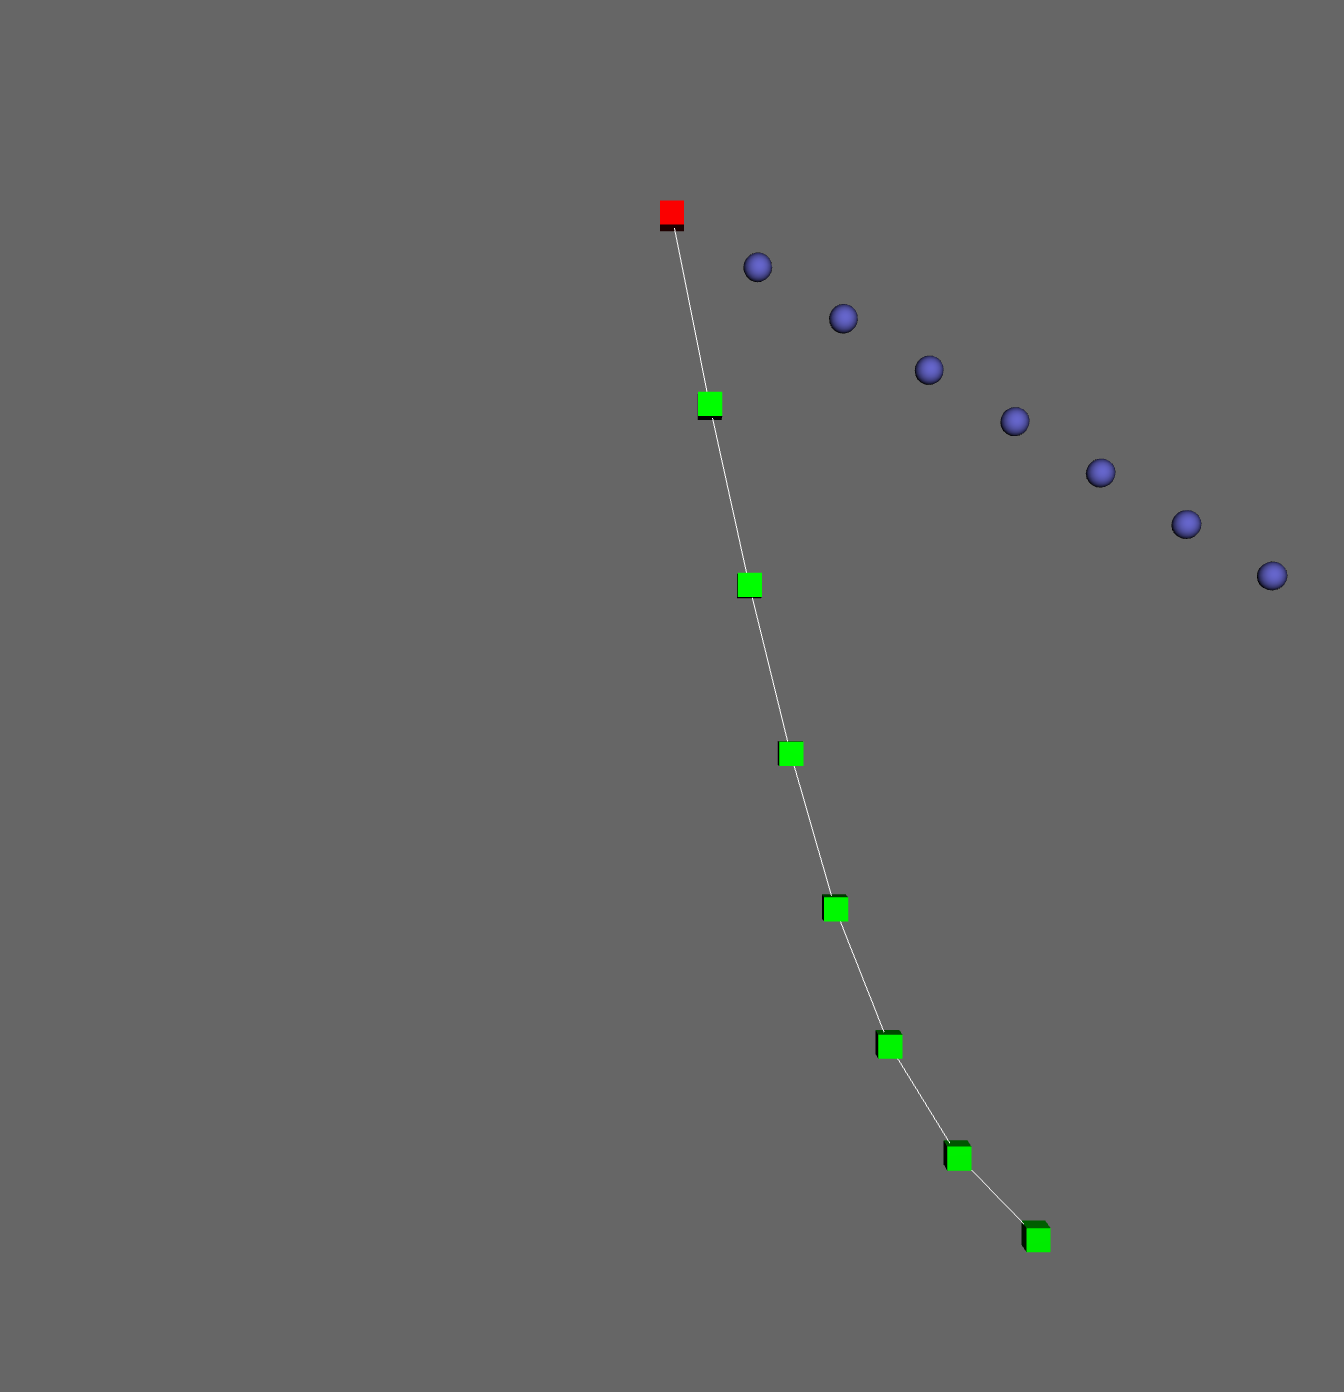
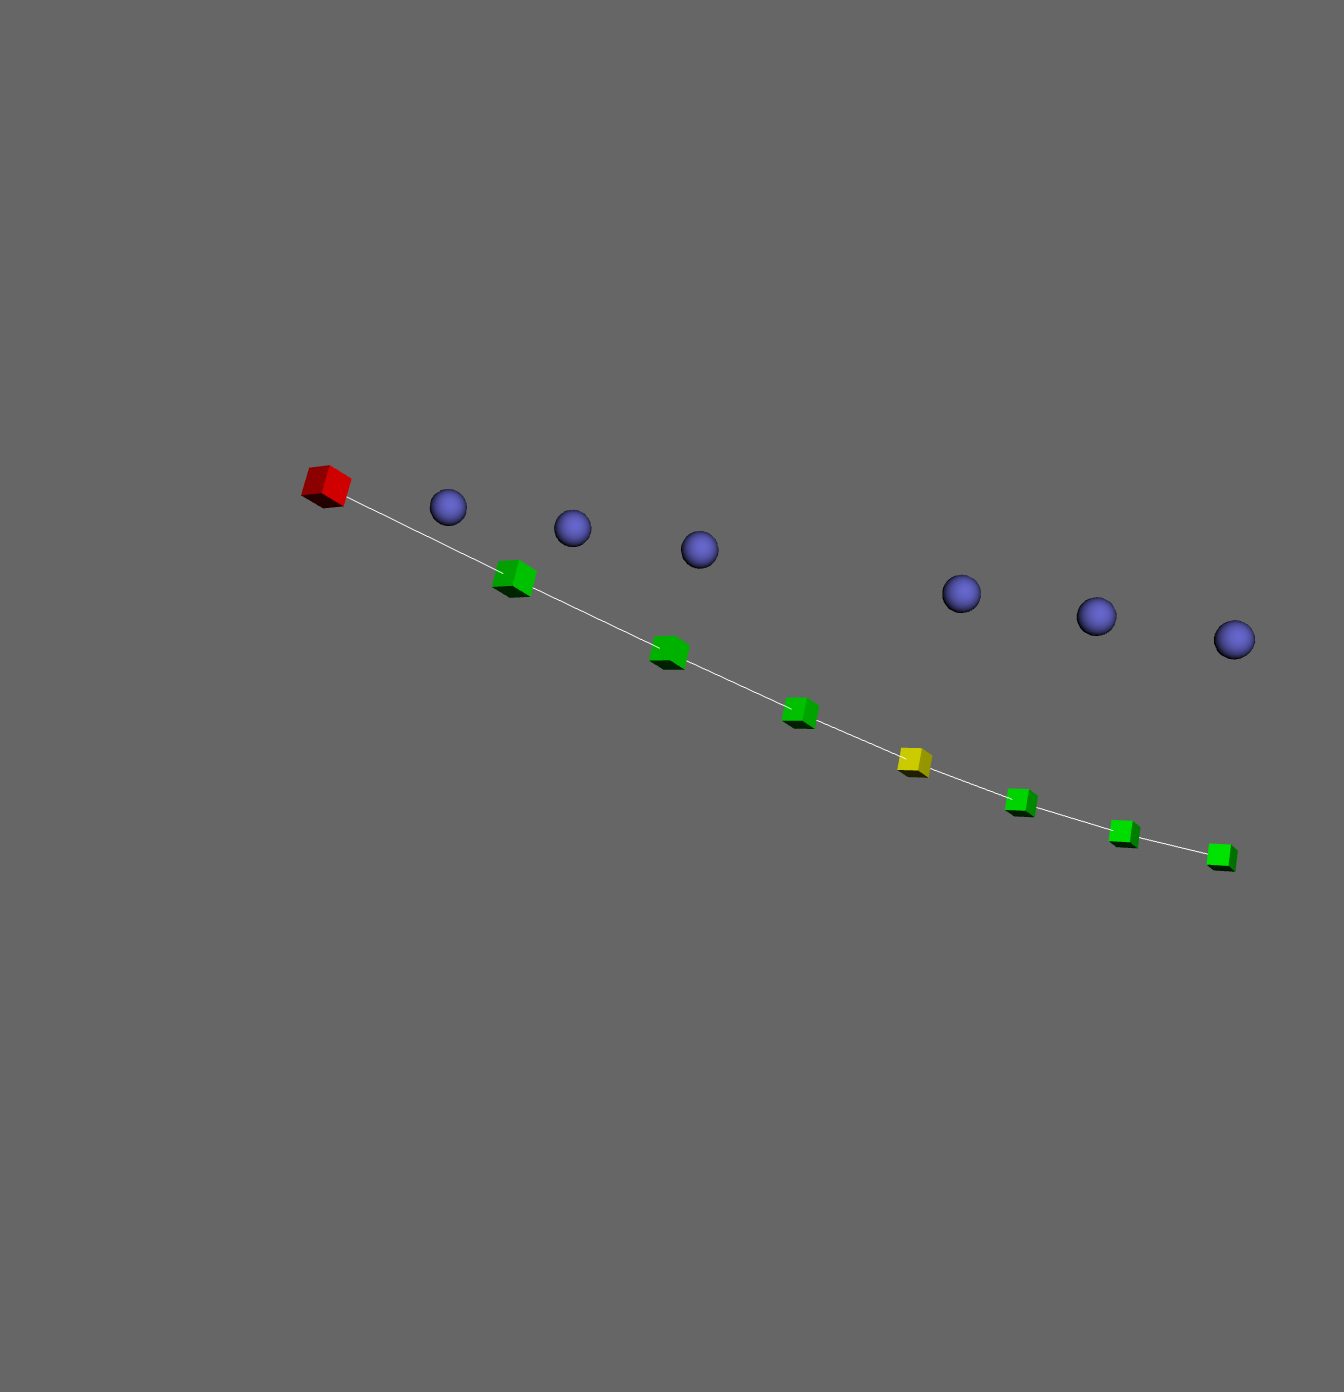
docs(mass-spring): document picking and dragging
Corrects the spec's guess about MSAA: the problem is not that multisampled
edge pixels decode to garbage, it is that glReadPixels on a multisampled
buffer is invalid outright, so the ID pass needs its own single-sample
framebuffer. The preview image now shows a held mass too.

diff --git a/MassSpring/README.md b/MassSpring/README.md
@@ -23,10 +23,26 @@ cd MassSpring
 uv run main.py
 ```
 
-Left mouse rotates; everything else is on the panel. Pin either end, turn on
-gravity and watch it swing. The cubes are the masses (red when pinned, green
-when free) and the small blue spheres are ghosts showing where each mass
-started.
+Left mouse drags a mass if you grab one and rotates the camera if you miss.
+Everything else is on the panel. Pin either end, turn on gravity and watch it
+swing. The cubes are the masses -- red when pinned, yellow while you are
+holding one, green otherwise -- and the small blue spheres are ghosts showing
+where each mass started.
+
+Picking is done by colour: the masses are rendered flat, each in a unique
+colour keyed to its index, and the pixel under the cursor is read back and
+decoded. The catch on the way there is worth knowing about. A `QOpenGLWidget`
+draws into a *multisampled* framebuffer, and `glReadPixels` on a multisampled
+buffer is an invalid operation, so you cannot simply draw the ID pass over the
+widget's own target -- which is what you can get away with in a
+`QOpenGLWindow` demo like `SelectionManipulator`. So the ID pass renders into
+its own single-sample framebuffer instead, which is what you want regardless:
+with no antialiasing no pixel is ever a blend of two IDs decoding to a third.
+
+A mass you are holding is kinematic -- it goes into the same fixed set as a
+pinned mass, so the integrator leaves it alone rather than fighting the mouse.
+Let go and it drops from a standstill. Drag a pinned mass and you move where
+it is pinned to.
 
 Worth a play: with soft springs a long chain under full gravity stretches a
 very long way -- which is correct, not a bug, and is easier to see here than to
@@ -44,7 +60,9 @@ same acceleration slot.
 - `rk4.py` -- the integrator, straight from the C++ `AbstractRK4Integrator`,
   over `(N,3)` arrays rather than a single `Vec3`. No Qt, no OpenGL.
 - `mass_spring.py` -- the chain and the spring force law.
-- `MassSpringScene.py` -- the drawing.
+- `picking.py` -- the colour ID encoding, the unproject and the ray/plane
+  intersection used to drag a mass. No Qt, no OpenGL.
+- `MassSpringScene.py` -- the drawing and the ID pass.
 - `main.py` -- the GUI, using `Vec3Widget` from `ncca.ngl.widgets` for the two
   ends.
 

diff --git a/docs/superpowers/specs/2026-07-17-mass-spring-design.md b/docs/superpowers/specs/2026-07-17-mass-spring-design.md
@@ -184,10 +184,24 @@ so a transpose).
 - `MassSpringScene.py` -- the ID pass and the press/move/release routing. The
   held mass draws yellow so it is obvious what is grabbed.
 
-**MSAA matters here.** The scene enables multisampling, and blended edge pixels
-in the ID pass decode to garbage indices. So the pick reads a 9x9 block around
-the cursor and accepts only exact colour matches, ignoring the rest -- the same
-trick `SelectionManipulator` uses.
+**MSAA turned out to matter more than expected** (corrected after building it;
+the original guess here was that blended edge pixels merely decode to garbage,
+and that reading a block would be enough).
+
+A `QOpenGLWidget` renders into a *multisampled* framebuffer, and `glReadPixels`
+on a multisampled buffer is `GL_INVALID_OPERATION` -- so the ID pass cannot be
+drawn over the widget's own target at all. `SelectionManipulator` gets away
+with that only because it is a `QOpenGLWindow` drawing to a real surface, and
+this demo has to be a widget to sit in the layout next to the panel.
+
+So the ID pass renders into its own single-sample framebuffer, which is the
+right target regardless: with no antialiasing, no pixel is ever a blend of two
+IDs decoding to a third.
+
+The 9x9 block is kept, but for a different reason than first assumed: the
+masses are small on screen, so the pick prefers the pixel directly under the
+cursor and falls back to the block only when that is background. That keeps
+grabbing forgiving while leaving two nearby masses separable.
 
 ### Testing
 
